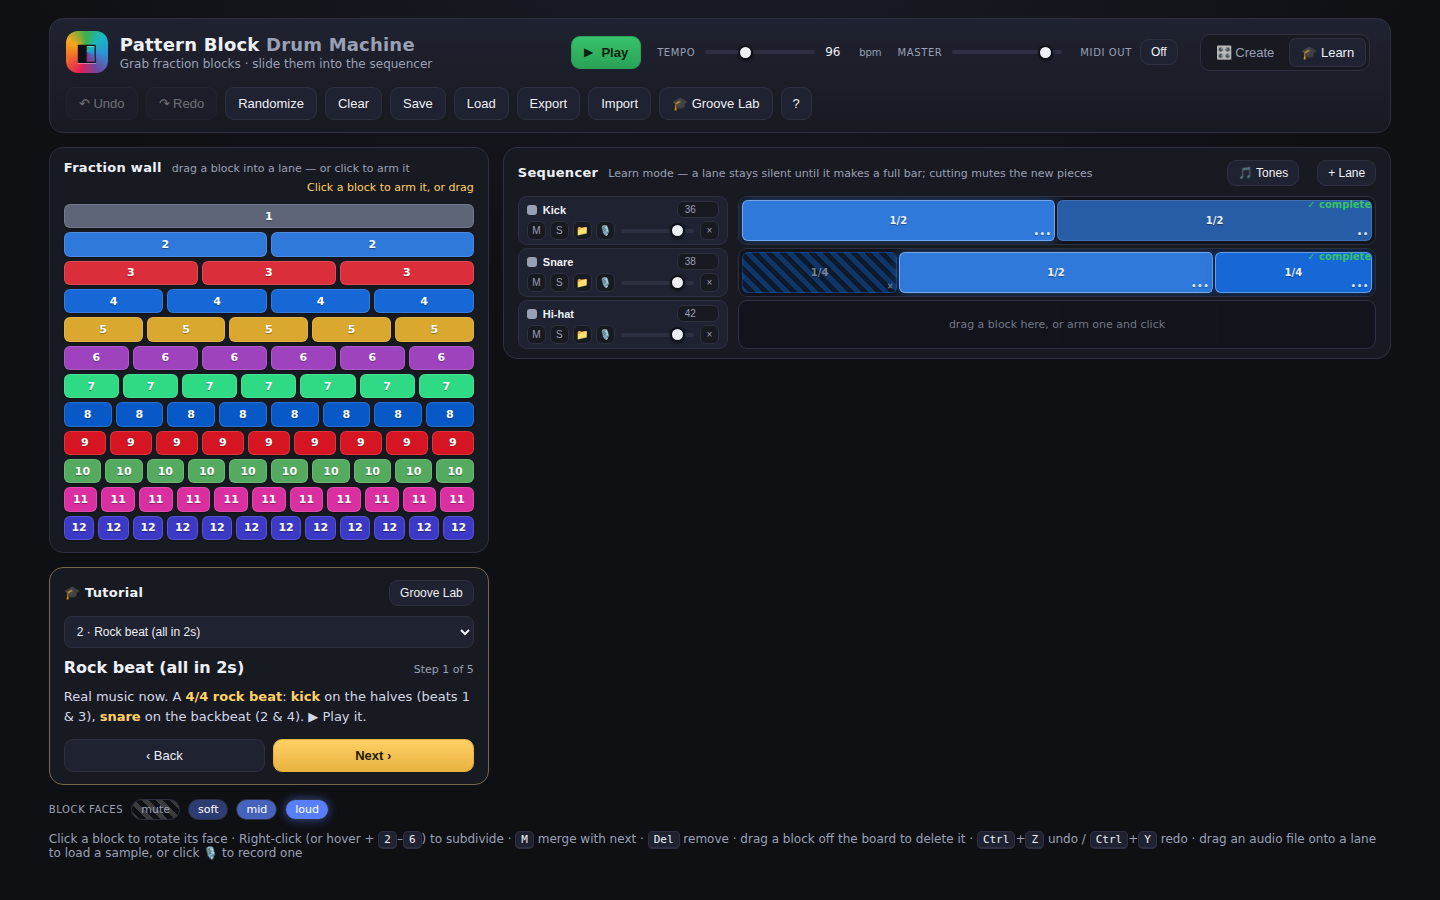
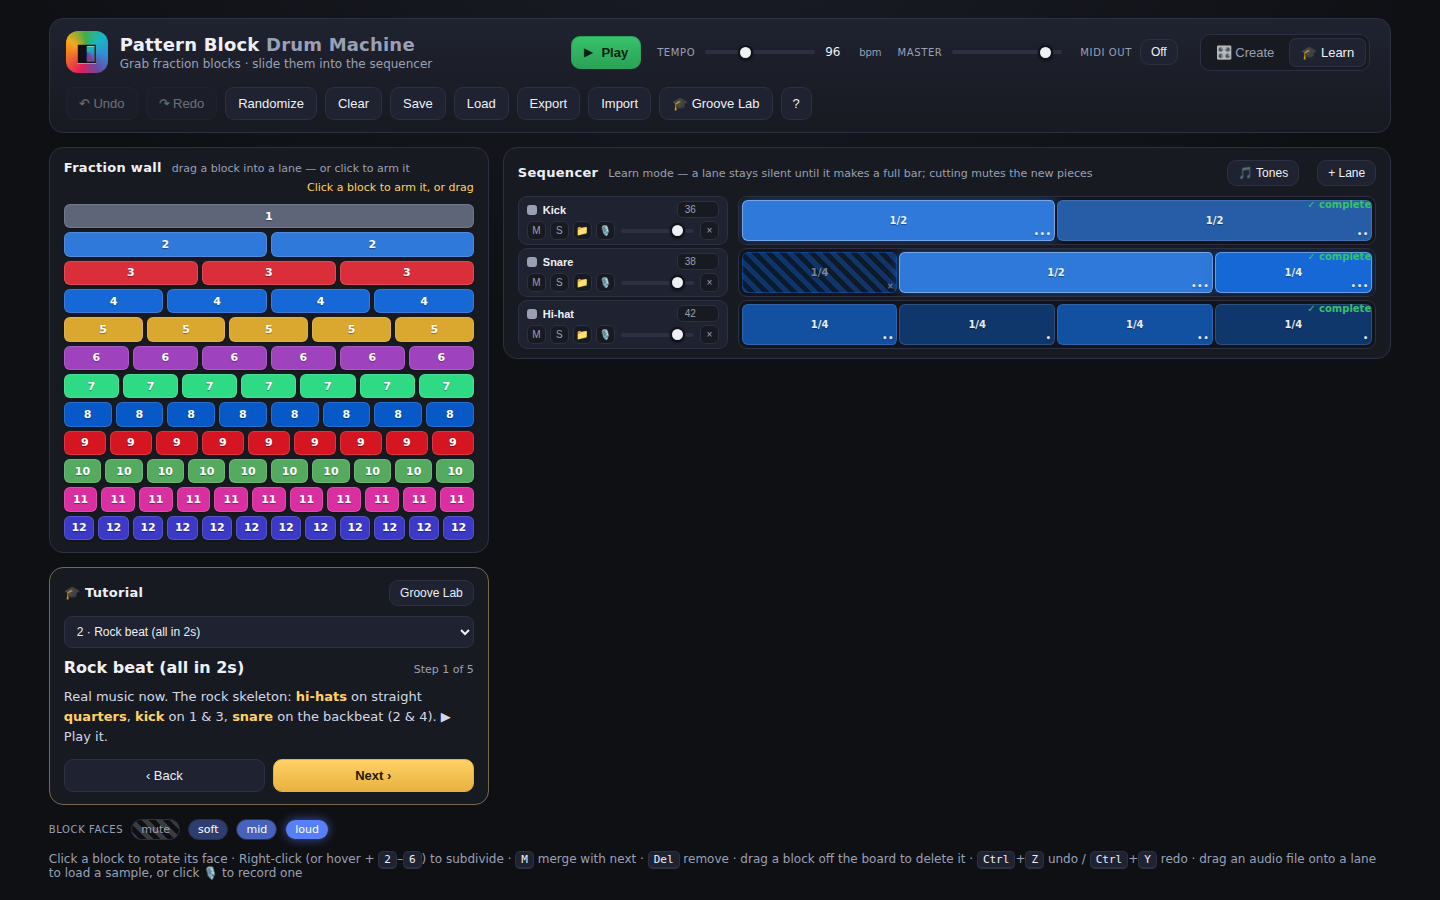
Rework rock lesson: quarter hats, cut snare to 8ths and hear it's identical
Per the proposed sequence: start from a quarter-hat rock skeleton, cut the
Snare to eighths and notice the sound is unchanged — because cutting mutes
the new slices, subdivision is a measuring lens, not a change (the same
trick that lined up 2 and 3 in Lesson 1). Then cut the Kick and Hi-hat to
eighths too so the whole kit shares one 8-grid: 2, 4 and 8 are all powers
of 2, so they lock — that four-square lock is rock. No new number, no new
feel.

Cache-bust bumped to v=16.

Claude-Session: https://claude.ai/code/session_01JLy3ZtVPaGqb343nudpiEm

Changed region(s): [[0.0312, 0.7467, 0.9688, 0.9956], [0.5, 0.3111, 0.9688, 0.4044]]

diff --git a/app.js b/app.js
@@ -1372,14 +1372,14 @@ const LESSONS = [
     setup: () => tutLanes([
       { voice: 0, name: 'Kick', blocks: [half('loud'), half('mid')] },
       { voice: 1, name: 'Snare', blocks: [q('mute'), half('loud'), q('loud')] },
-      { voice: 3, name: 'Hi-hat' },
+      { voice: 3, name: 'Hi-hat', blocks: [q('mid'), q('soft'), q('mid'), q('soft')] },
     ]),
     steps: [
-      { text: "Real music now. A <b>4/4 rock beat</b>: <b>kick</b> on the halves (beats 1 & 3), <b>snare</b> on the backbeat (2 & 4). ▶ Play it." },
-      { text: "Add <b>hi-hats</b>: fill the Hi-hat lane with <b>eighths</b> (⅛).", done: () => laneAllUnit(2, 8) },
-      { text: "Busier — but the <b>same groove</b>, right? Detail that stays in the family adds density, not a new feel." },
-      { text: "Prove it: <b>cut the Kick to the hats' grid</b> — cut each ½ so the whole Kick lane is <b>eighths</b> too.", done: () => laneAllUnit(0, 8) && laneAllUnit(2, 8) },
-      { text: "Everything lands on the <b>eighth grid</b> with room to spare — 2, 4 and 8 are all powers of <b>2</b>, so the shared grid is just <b>8</b> and they <b>lock</b>. That tight, four-square lock <i>is</i> the sound of rock. (Want a different feel? You need a new number — that's the next lessons.)" },
+      { text: "Real music now. The rock skeleton: <b>hi-hats</b> on straight <b>quarters</b>, <b>kick</b> on 1 & 3, <b>snare</b> on the backbeat (2 & 4). ▶ Play it." },
+      { text: "Try a finer grid: <b>cut the Snare into eighths</b> (⅛). Cut each block until the whole Snare lane is ⅛s.", done: () => laneAllUnit(1, 8) },
+      { text: "Hear it? <b>Identical.</b> Cutting mutes the new slices, so it just re-draws the same groove on a finer grid — a measuring lens, not a new sound (exactly how we lined up 2 and 3 back in Lesson 1). Eighths are still 2s." },
+      { text: "Now put the <b>whole kit on one grid</b>: cut the <b>Kick</b> and <b>Hi-hat</b> to eighths too.", done: () => laneAllUnit(0, 8) && laneAllUnit(2, 8) },
+      { text: "2, 4 and 8 are all powers of <b>2</b>, so they share the eighth grid and <b>lock</b> — that tight, four-square lock <i>is</i> rock. It never needed a new number. Change the number and you change the feel: that's the next lessons." },
     ],
   },
   {

diff --git a/index.html b/index.html
@@ -5,7 +5,7 @@
   <meta name="viewport" content="width=device-width, initial-scale=1.0" />
   <title>Pattern Block Drum Machine</title>
   <meta name="description" content="Grab fraction blocks from the wall and slide them into a sampler sequencer. Rotate block faces for dynamics, subdivide beats." />
-  <link rel="stylesheet" href="styles.css?v=15" />
+  <link rel="stylesheet" href="styles.css?v=16" />
 </head>
 <body>
   <div id="app">
@@ -236,6 +236,6 @@
   <input id="fileInput" type="file" accept="audio/*" hidden />
   <input id="jsonInput" type="file" accept="application/json,.json" hidden />
 
-  <script src="app.js?v=15"></script>
+  <script src="app.js?v=16"></script>
 </body>
 </html>
